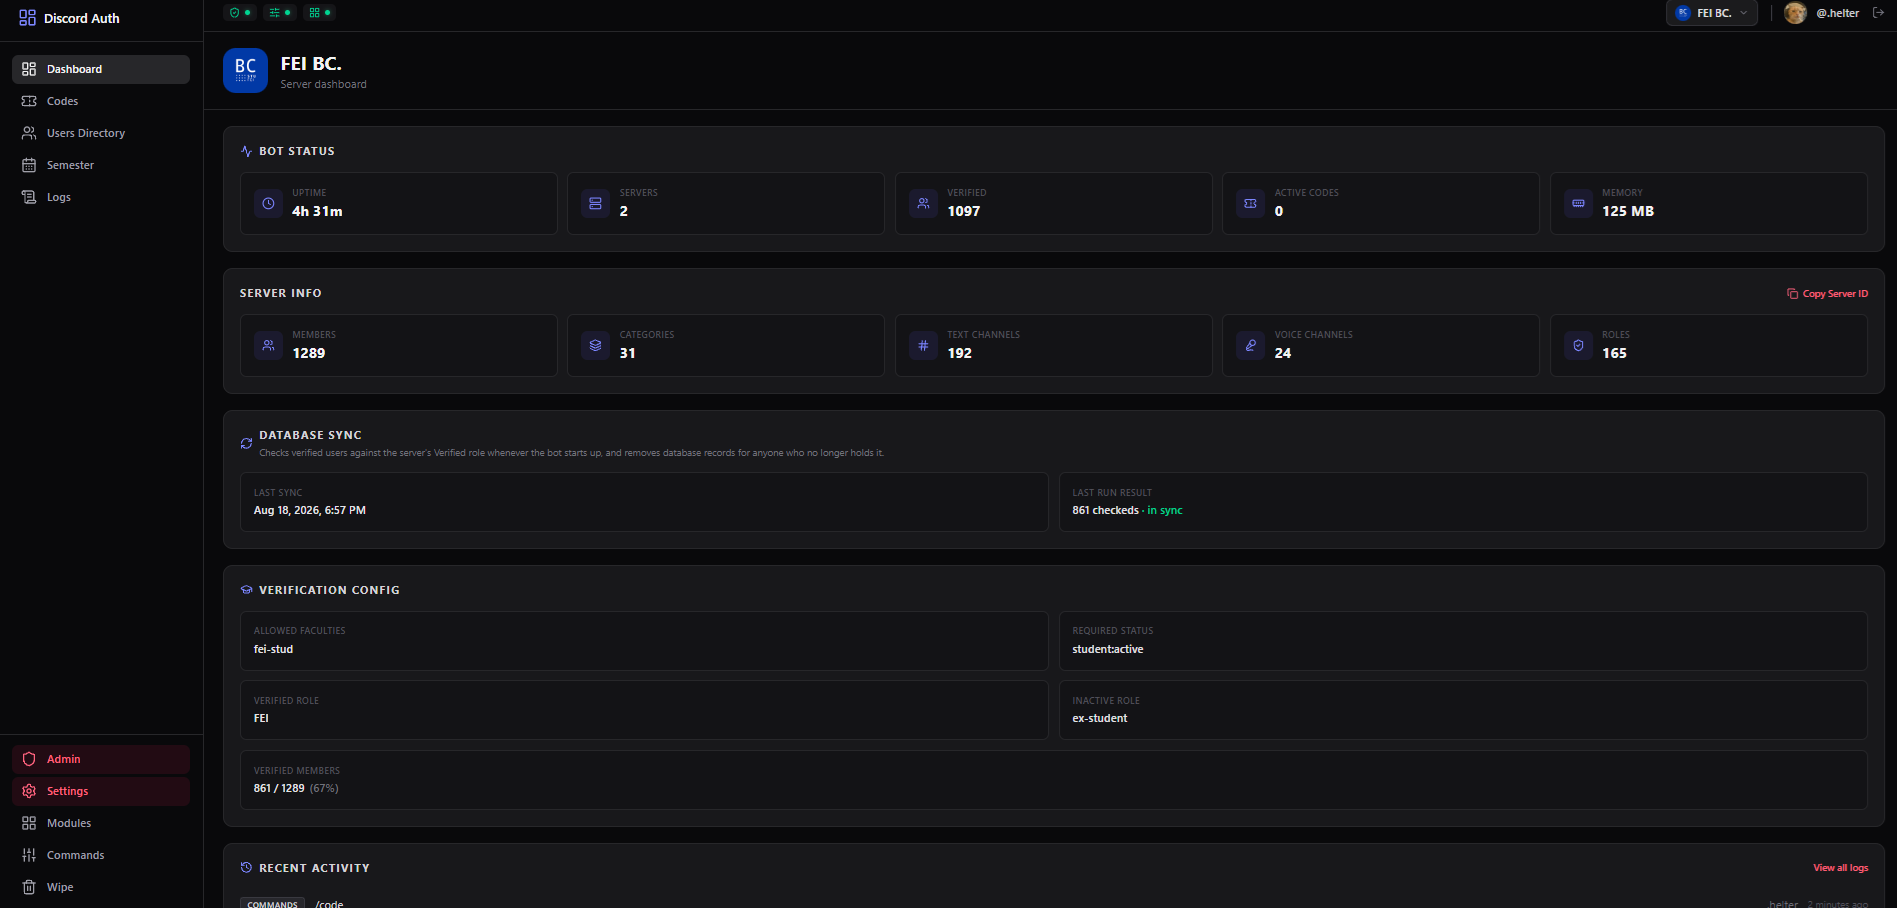
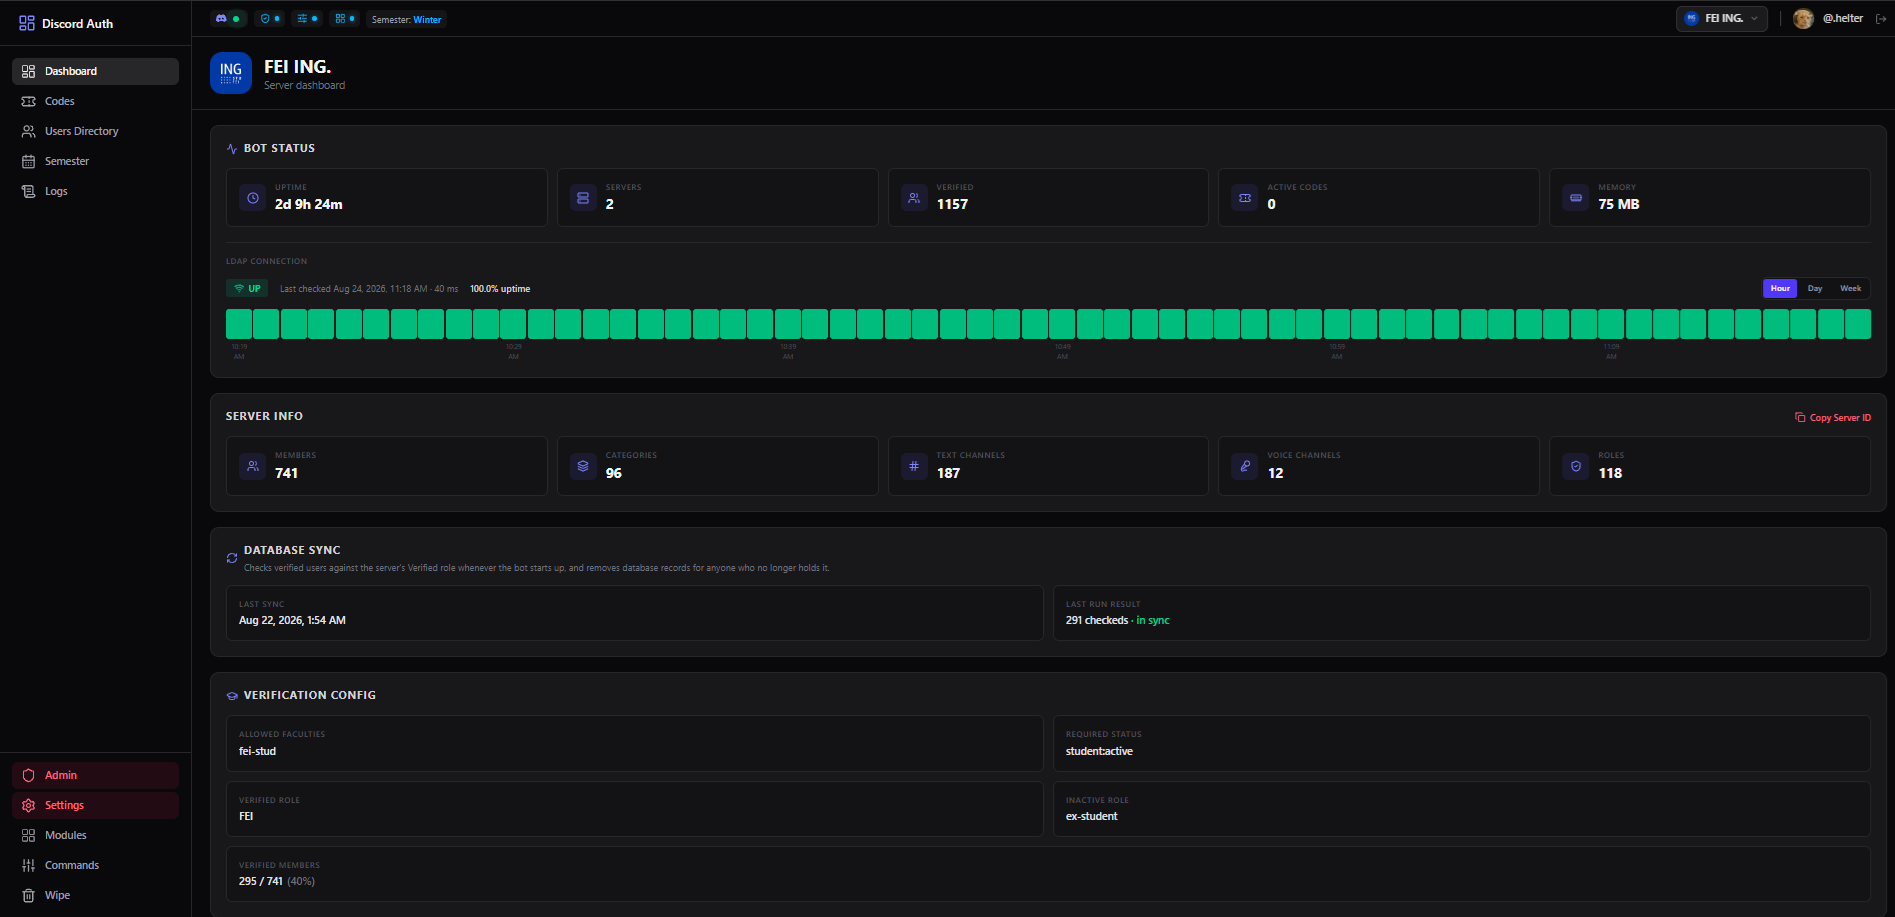
docs: update README screenshots + feature list
- refresh dashboard/logs/switch-semester screenshots (LDAP widget, 8-tab
  logs, Simple mode)
- add switch-semester-advanced.png (Switch Plans editor, rollback UI,
  drag-to-reorder role mappings)
- document Logs tabs (Operations, Role Menu), thesis counter (/odpocet)
  module in Funkcie section

diff --git a/README.md b/README.md
@@ -14,7 +14,8 @@ Prepis staršieho Node.js bota ([ais-authentication](../ais-authentication)) na 
 ## Funkcie
 
 - **Overenie študentov** — `/verify`, `/code`, `/manualverify`. Používateľ zadá AIS ID, dostane overovací kód na univerzitný e-mail (Spring Mail/Mailpit), po zadaní kódu appka overí identitu voči LDAP a prideľuje Discord rolu.
-- **Admin dashboard** — per-guild správa cez Discord OAuth2 login. Nastavenia bota, warny (`/warn`, `/warns`, auto-punishment), audit log, access log, správa príkazov a rolí, hromadný re-check/wipe overených členov voči LDAP, prepínanie semestra, automatické mazanie správ, „Hacked Account Trap" automod (nastaviteľný trap kanál — ktokoľvek doňho napíše mimo výnimiek dostane permanent ban, voliteľne DM pred banom a zmazanie správ za posledných X hodín, všetko zalogované do audit logu aj spam logu).
+- **Admin dashboard** — per-guild správa cez Discord OAuth2 login. Nastavenia bota, warny (`/warn`, `/warns`, auto-punishment), audit log (Dashboard, Operations, Logins, Warnings, Automod, Verification, Commands, Role Menu), správa príkazov a rolí, hromadný re-check/wipe overených členov voči LDAP, prepínanie semestra (Switch Plans editor s rollback UI, ZS/LS role mappings), automatické mazanie správ, „Hacked Account Trap" automod (nastaviteľný trap kanál — ktokoľvek doňho napíše mimo výnimiek dostane permanent ban, voliteľne DM pred banom a zmazanie správ za posledných X hodín, všetko zalogované do audit logu aj spam logu), LDAP connection uptime monitoring priamo na Dashboarde.
+- **Thesis counter** — `/odpocet`, voliteľný dashboard modul. Premenováva kanál na odpočet dní do obhajoby (BP/DP), formát názvu kanála aj „dnes" stavu je nastaviteľný (vrátane emoji), plánovaná úloha ho denne prepočíta a premenuje.
 - **Autorizácia** — super-admini (celá appka) + per-guild manažéri (len svoj server), vynucované na každom endpointe cez `GuildAccessService`.
 - **Prihlasovanie** — Discord OAuth2 (`spring-boot-starter-oauth2-client`, vlastná `ClientRegistration` pre Discord). Appka si sama vydáva a validuje JWT session token + refresh token, žiadny externý identity provider.
 
@@ -114,7 +115,7 @@ Jadro appky (overenie, dashboard, autorizácia, audit log, Discord OAuth2 login 
 </tr>
 <tr>
 <td><img src="docs/screenshots/select-server.png" width="100%"><br><sub><b>Select server</b><br>Výber servera — super-admin vidí všetky, manažér len svoje.</sub></td>
-<td><img src="docs/screenshots/dashboard.png" width="100%"><br><sub><b>Dashboard</b><br>Stav bota, počet overených členov, aktívne kódy.</sub></td>
+<td><img src="docs/screenshots/dashboard.png" width="100%"><br><sub><b>Dashboard</b><br>Stav bota, počet overených členov, aktívne kódy, LDAP connection uptime.</sub></td>
 </tr>
 <tr>
 <td><img src="docs/screenshots/users.png" width="100%"><br><sub><b>Users</b><br>Overení členovia, hromadný re-check/wipe proti LDAP.</sub></td>
@@ -130,18 +131,18 @@ Jadro appky (overenie, dashboard, autorizácia, audit log, Discord OAuth2 login 
 </tr>
 <tr>
 <td><img src="docs/screenshots/auto-mentions.png" width="100%"><br><sub><b>Auto mentions</b><br>Automod pre mention spam.</sub></td>
-<td><img src="docs/screenshots/role-menu.png" width="100%"><br><sub><b>Role menu</b><br>Self-service roly cez Discord tlačidlá.</sub></td>
+<td><img src="docs/screenshots/role-menu.png" width="100%"><br><sub><b>Role menu</b><br>Self-service roly cez Discord tlačidlá, drag-to-reorder v editore.</sub></td>
 </tr>
 <tr>
 <td><img src="docs/screenshots/commands.png" width="100%"><br><sub><b>Commands</b><br>Zapínanie/vypínanie príkazov, permission overrides.</sub></td>
-<td><img src="docs/screenshots/logs.png" width="100%"><br><sub><b>Logs</b><br>Audit log a access log admin/moderátorských akcií.</sub></td>
+<td><img src="docs/screenshots/logs.png" width="100%"><br><sub><b>Logs</b><br>Audit log: Dashboard, Operations, Logins, Warnings, Automod, Verification, Commands, Role Menu tab.</sub></td>
+</tr>
+<tr>
+<td><img src="docs/screenshots/switch-semester.png" width="100%"><br><sub><b>Switch semester — Simple mode</b><br>Prepínanie semestra, základný pohľad.</sub></td>
+<td><img src="docs/screenshots/switch-semester-advanced.png" width="100%"><br><sub><b>Switch semester — Advanced mode</b><br>Switch Plans editor, rollback UI, ZS/LS role mappings (drag-to-reorder).</sub></td>
 </tr>
 <tr>
 <td><img src="docs/screenshots/settings.png" width="100%"><br><sub><b>Settings</b><br>Nickname bota, timezone, per-guild nastavenia.</sub></td>
-<td><img src="docs/screenshots/switch-semester.png" width="100%"><br><sub><b>Switch semester</b><br>Prepínanie semestra.</sub></td>
-</tr>
-<tr>
 <td><img src="docs/screenshots/admin.png" width="100%"><br><sub><b>Admin</b><br>Globálna super-admin sekcia (mimo per-guild).</sub></td>
-<td></td>
 </tr>
 </table>
